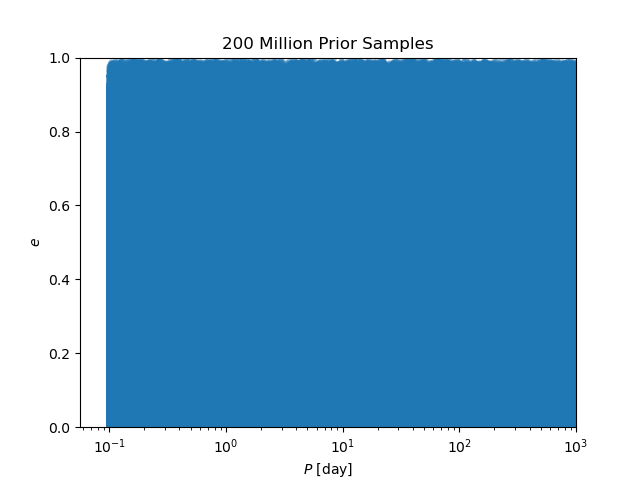
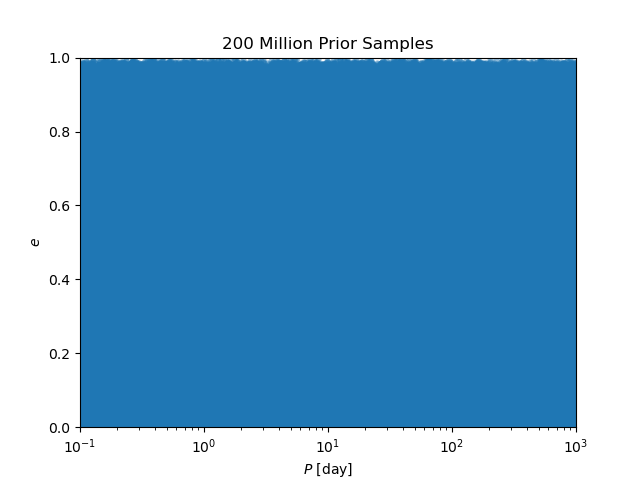
plots

diff --git a/AASplots.py b/AASplots.py
@@ -11,7 +11,7 @@ import os
 
 DATA_PATH = os.getenv("DATA_PATH", "/users/EllaMathews/Summer-Research") #environment variable 
 prior = tj.JokerSamples.read('/data2/labs/douglste-laf-lab/mathewea/200.0M_new/prior_samples_200M_new.hdf5')
-rejectionsamples = tj.JokerSamples.read('/data2/labs/douglste-laf-lab/mathewea/200.0M_new/2128145544872361984/rejection_samples_200.0M_2128145544872361984_new.hdf5')
+rejectionsamples = tj.JokerSamples.read('/data2/labs/douglste-laf-lab/mathewea/200.0M_new/2128140219113783296/rejection_samples_200.0M_2128140219113783296_new.hdf5')
 new_6866 = QTable.read('/data2/labs/douglste-laf-lab/mathewea/rcat_ngc6866_v0.fits')
 new_6811 = QTable.read('/data2/labs/douglste-laf-lab/mathewea/rcat_ngc6811_v0.fits')
 id_list = Table.read('/data2/labs/douglste-laf-lab/mathewea/Summer-Research/GAIADR3_IDs.csv')
@@ -35,13 +35,13 @@ plt.yticks(fontsize=12)
 fig1, ax1 =plt.subplots()
 _ = data.plot()
 ax1.set_title("Inital RV Data")
-fig1.savefig('initialRV_finalpres.png')
+fig1.savefig('initialRV_finalpres2.png')
 print('RV data plotted')
 
 fig2, ax2 = plt.subplots()
 ax2.scatter(prior["P"], prior["e"], s=20, lw=0, alpha=0.5)
 ax2.set_xscale("log")
-ax2.set_xlim(0, 1e3)
+ax2.set_xlim(1e-1, 1e3)
 ax2.set_ylim(0, 1)
 ax2.set_xlabel("$P$ [day]")
 ax2.set_ylabel("$e$")
@@ -54,18 +54,18 @@ fig3, ax3 = plt.subplots()
 with quantity_support():
     ax3.scatter(rejectionsamples["P"], rejectionsamples["e"], s=20, lw=0, alpha=0.5)
     ax3.set_xscale("log")
-    ax3.set_xlim(0, 1e3)
+    ax3.set_xlim(1e-1, 1e3)
     ax3.set_ylim(0, 1)
     ax3.set_xlabel("$P$ [day]")
     ax3.set_ylabel("$e$")
     ax3.set_title("Rejection Samples")
-fig3.savefig('rejectionsamples_finalpres.png')
+fig3.savefig('rejectionsamples_finalpres2.png')
 print('rejection samples Plotted')
 
 fig4, ax4 = plt.subplots()
 _ = tj.plot_rv_curves(rejectionsamples, data=data) 
 ax4.set_title("Possible Orbits")
-fig4.savefig('posorbits_finalpres.png')
+fig4.savefig('posorbits_finalpres2.png')
 print("RV curves after rejection plotted")
 
 
